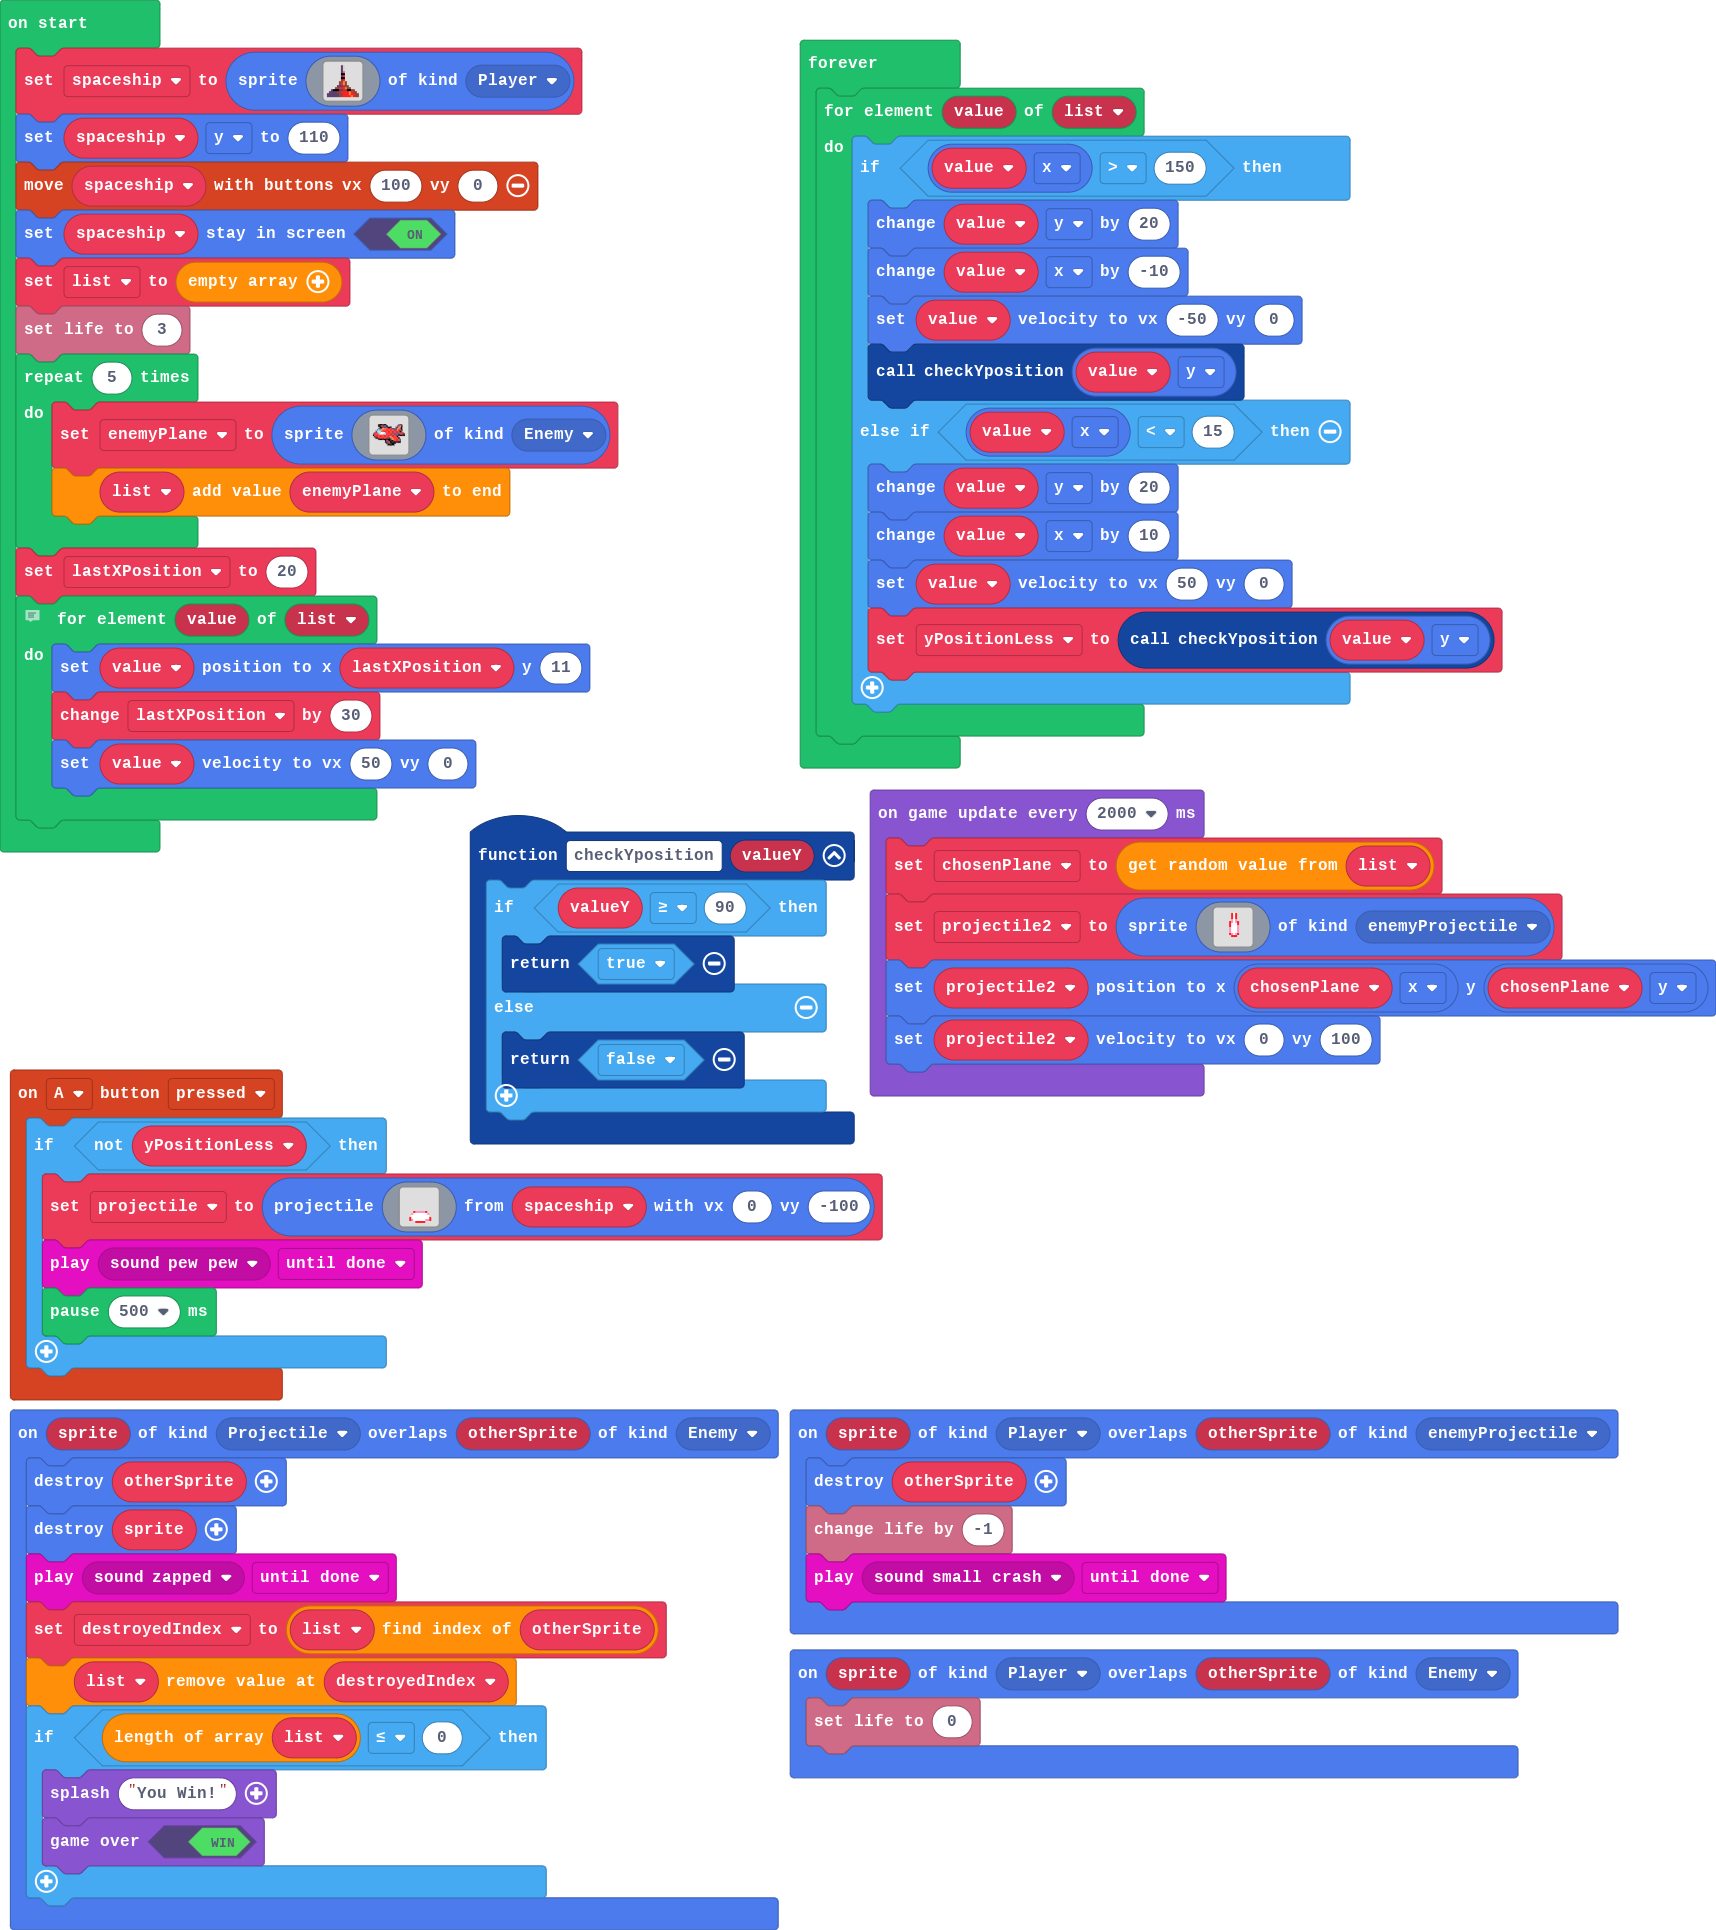
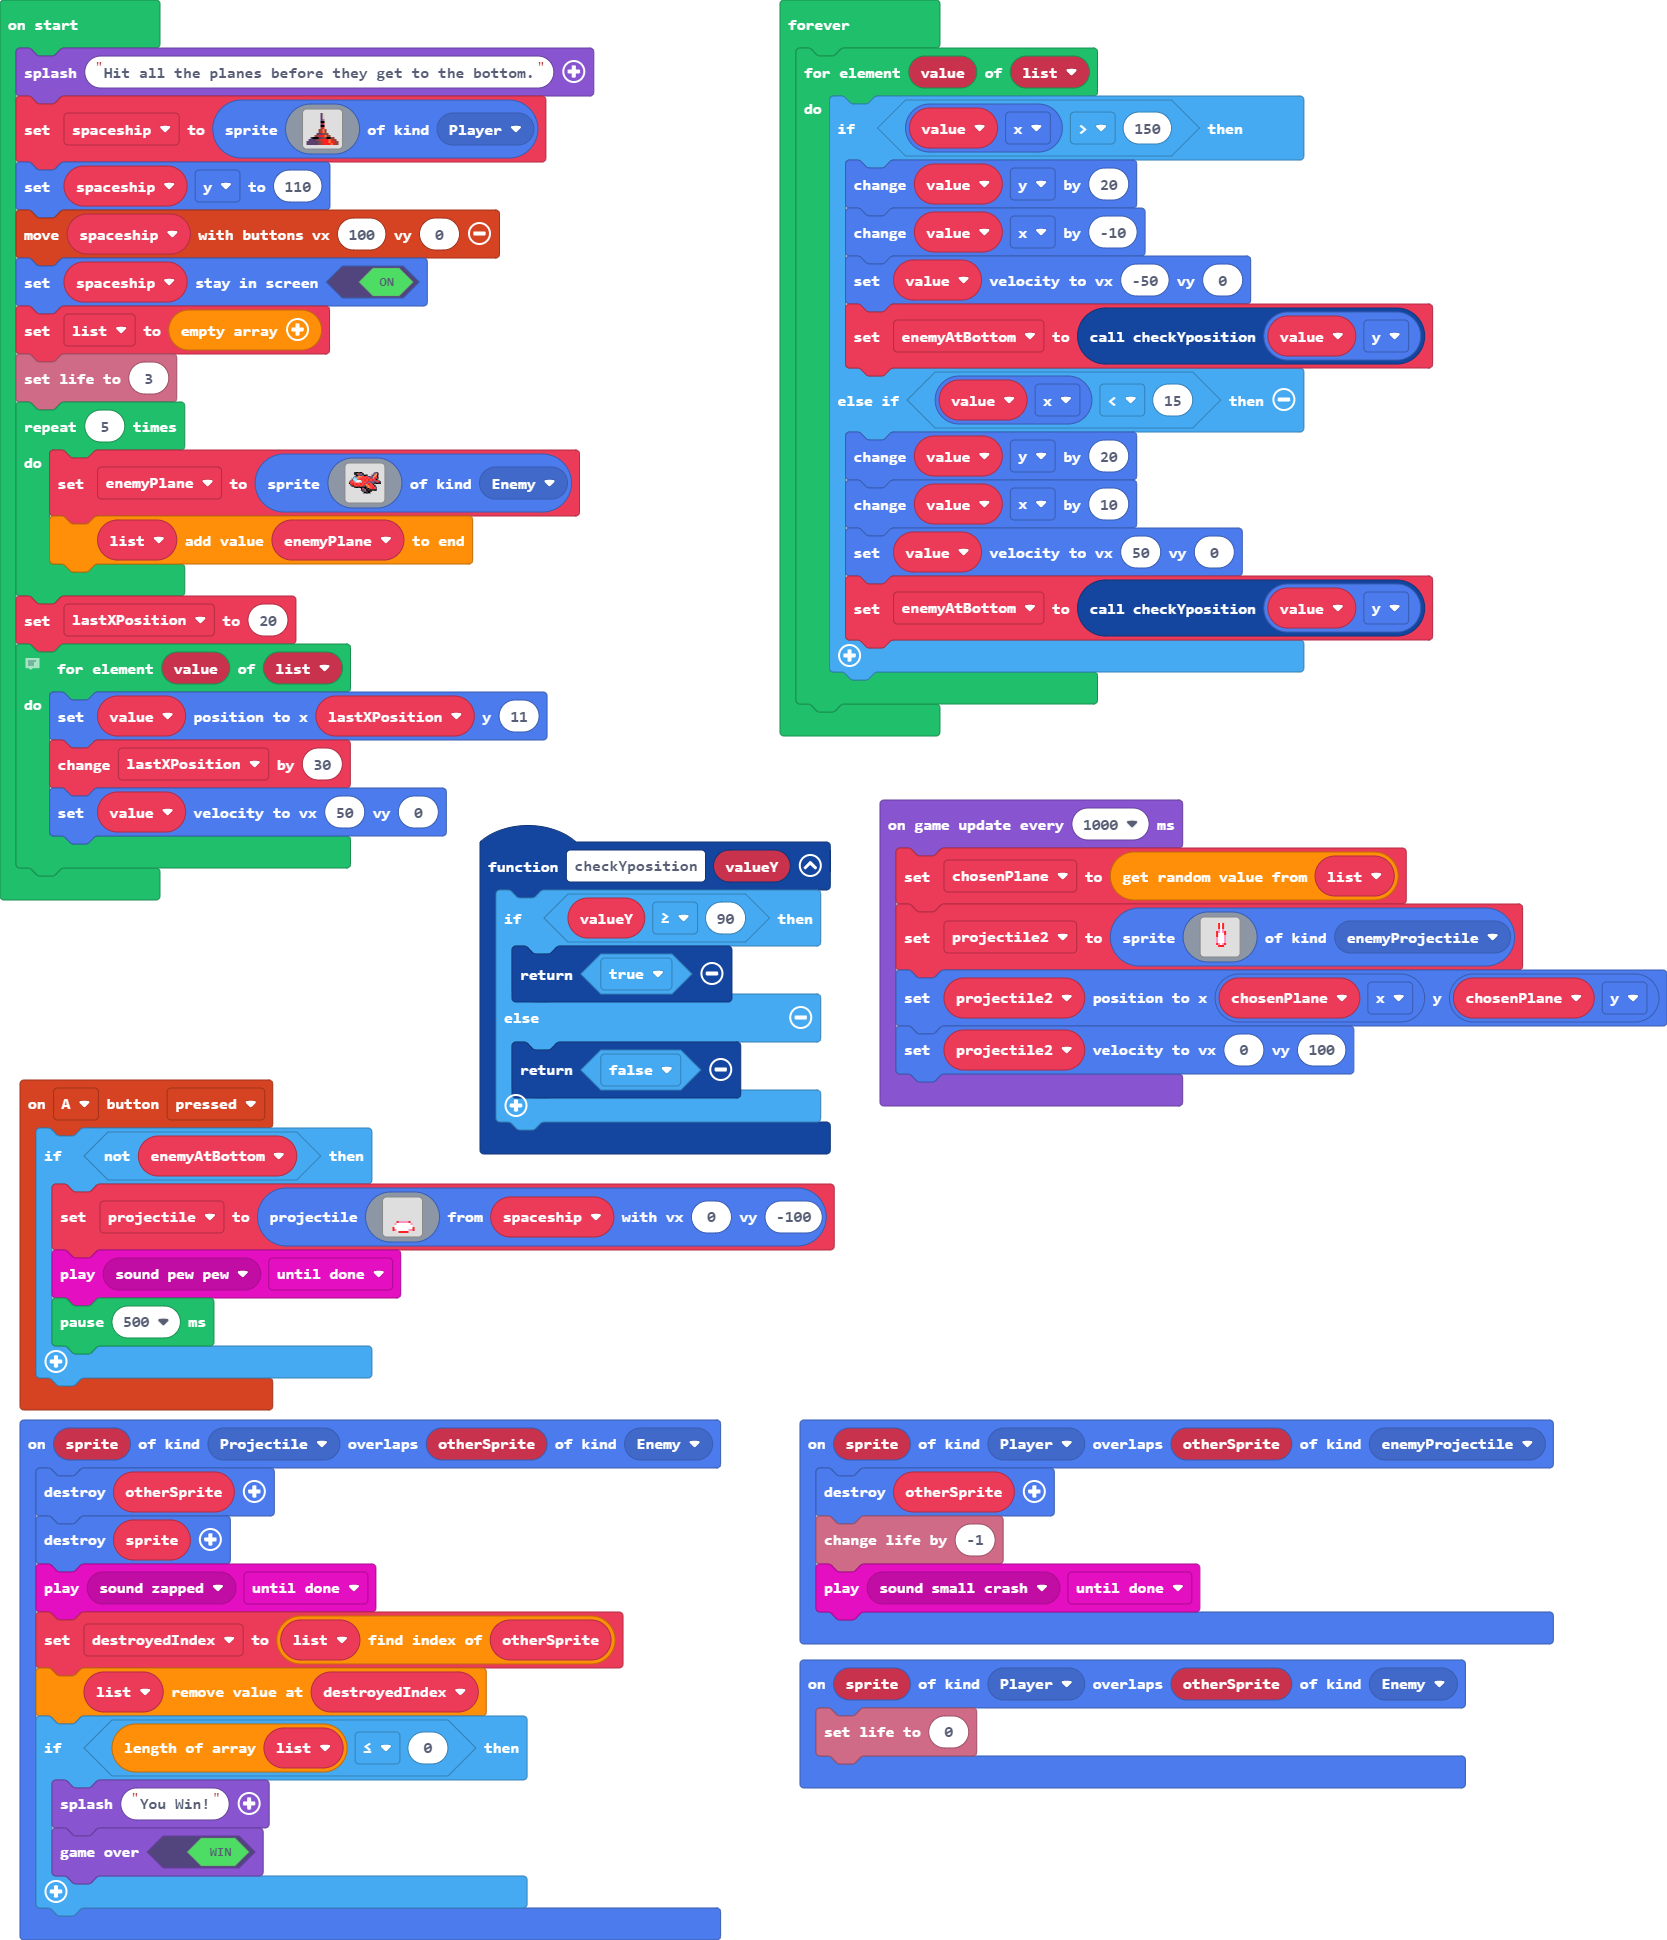
made the planes shoot more often

Changed region(s): [[0.0, 0.0, 1.0, 1.0], [0.4055, 0.9637, 0.4679, 1.0], [0.8734, 0.9016, 0.9046, 0.9326]]

diff --git a/main.ts b/main.ts
@@ -14,7 +14,7 @@ sprites.onOverlap(SpriteKind.Player, SpriteKind.enemyProjectile, function (sprit
     music.play(music.melodyPlayable(music.smallCrash), music.PlaybackMode.UntilDone)
 })
 controller.A.onEvent(ControllerButtonEvent.Pressed, function () {
-    if (!(yPositionLess)) {
+    if (!(enemyAtBottom)) {
         projectile = sprites.createProjectileFromSprite(img`
             . . . . . . . . . . . . . . . . 
             . . . . . . . . . . . . . . . . 
@@ -55,10 +55,11 @@ let projectile2: Sprite = null
 let chosenPlane: Sprite = null
 let destroyedIndex = 0
 let projectile: Sprite = null
-let yPositionLess = false
+let enemyAtBottom = false
 let enemyPlane: Sprite = null
 let list: Sprite[] = []
 let spaceship: Sprite = null
+game.splash("Hit all the planes before they get to the bottom.")
 spaceship = sprites.create(img`
     . . . . . . . c d . . . . . . . 
     . . . . . . . c d . . . . . . . 
@@ -110,7 +111,7 @@ for (let value of list) {
     lastXPosition += 30
     value.setVelocity(50, 0)
 }
-game.onUpdateInterval(2000, function () {
+game.onUpdateInterval(1000, function () {
     chosenPlane = list._pickRandom()
     projectile2 = sprites.create(img`
         . . . . . . . . . . . . . . . . 
@@ -139,12 +140,12 @@ forever(function () {
             value.y += 20
             value.x += -10
             value.setVelocity(-50, 0)
-            checkYposition(value.y)
+            enemyAtBottom = checkYposition(value.y)
         } else if (value.x < 15) {
             value.y += 20
             value.x += 10
             value.setVelocity(50, 0)
-            yPositionLess = checkYposition(value.y)
+            enemyAtBottom = checkYposition(value.y)
         }
     }
 })
